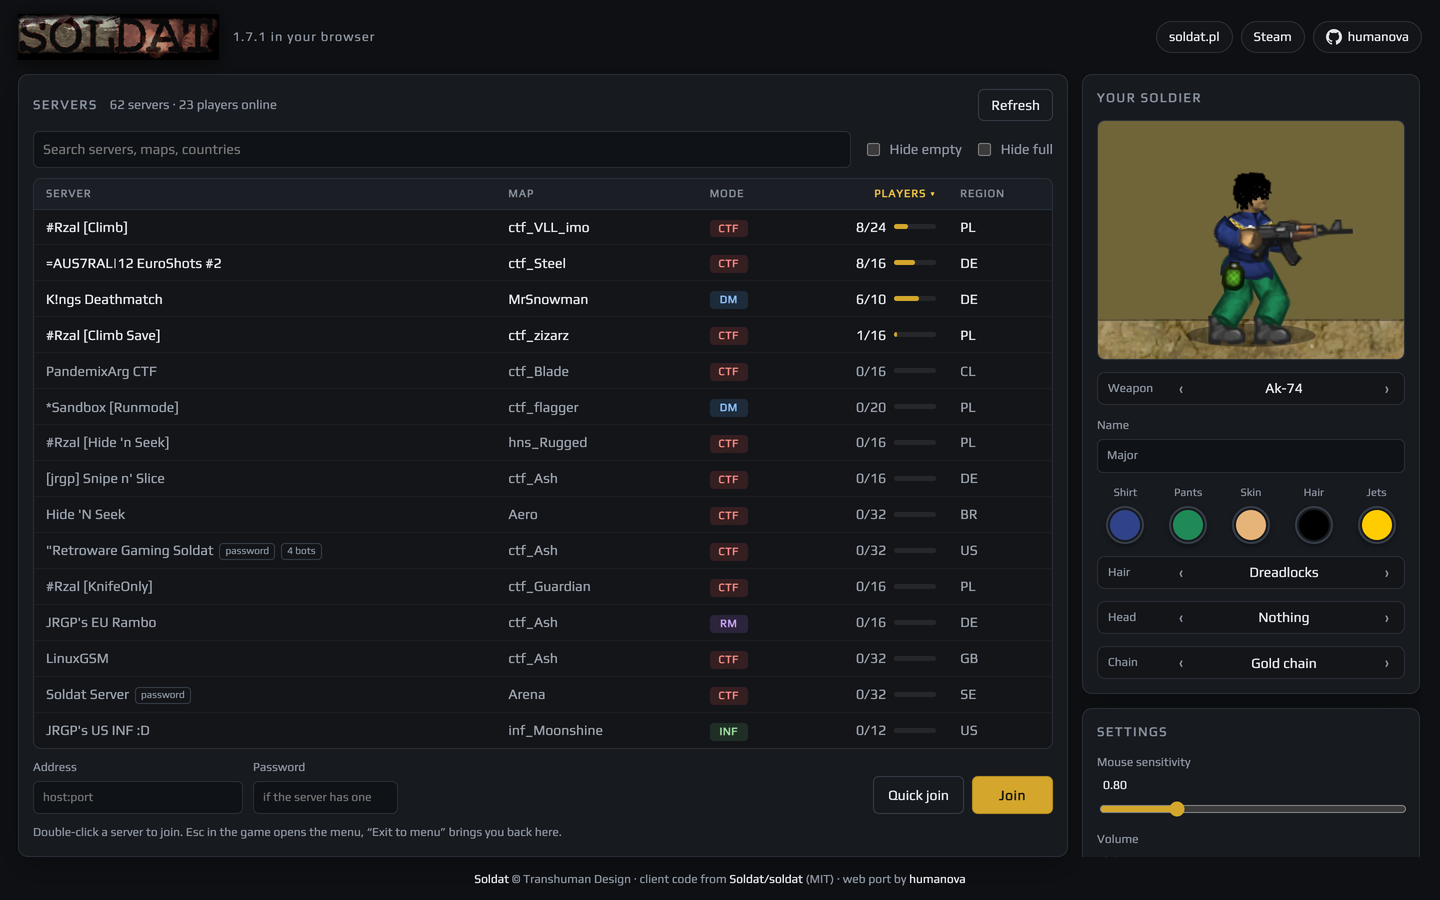
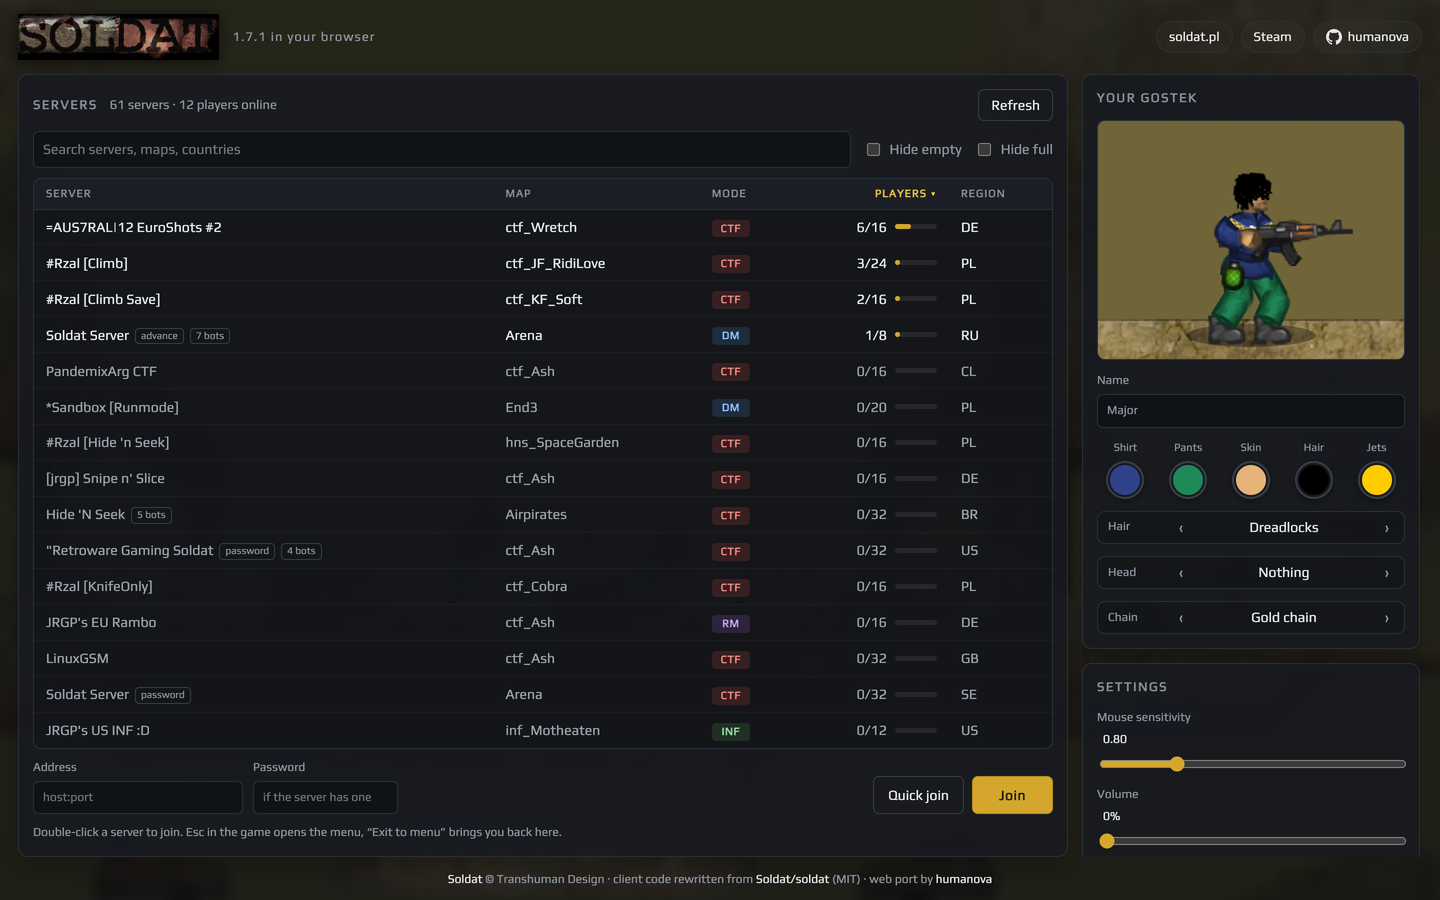
docs/readme: update screenshots

diff --git a/README.md b/README.md
@@ -30,7 +30,7 @@ Then open <http://localhost:8080>.
 2. Pick a server and press **Join**, or double-click it. **Quick join** takes you to the
    busiest server that has room.
 
-![The menu: server list and soldier preview](docs/screenshots/menu.png)
+![The menu: server list and gostek preview](docs/screenshots/menu.png)
 
 A few extras:
 
@@ -60,7 +60,7 @@ sounds decoded the way SDL decodes them.
 
 **Doesn't support**: Recording and playing demos.
 
-![Respawning, with the weapon menu open](docs/screenshots/weapons.jpg)
+![A CTF round on ctf_Lanubya](docs/screenshots/lanubya.jpg)
 
 ## Host it for others
 
@@ -164,7 +164,8 @@ plus the web port by [humanova](https://github.com/humanova).
 
 The game data is not covered by that license: `web/soldat.smod` and `web/assets/` hold
 files of Soldat 1.7.1 (freeware, © Transhuman Design, all rights reserved) and of the
-[base game content](https://github.com/opensoldat/base) (CC BY 4.0).
+[base game content](https://github.com/opensoldat/base) (CC BY 4.0). The menu backdrop
+`web/backdrop.jpg` and the screenshots are pictures of the game.
 
 Also included: the Play font by Jonas Hecksher (SIL Open Font License 1.1), stb_image
 (public domain) and FreeType (FreeType License). Portions of this software are copyright
